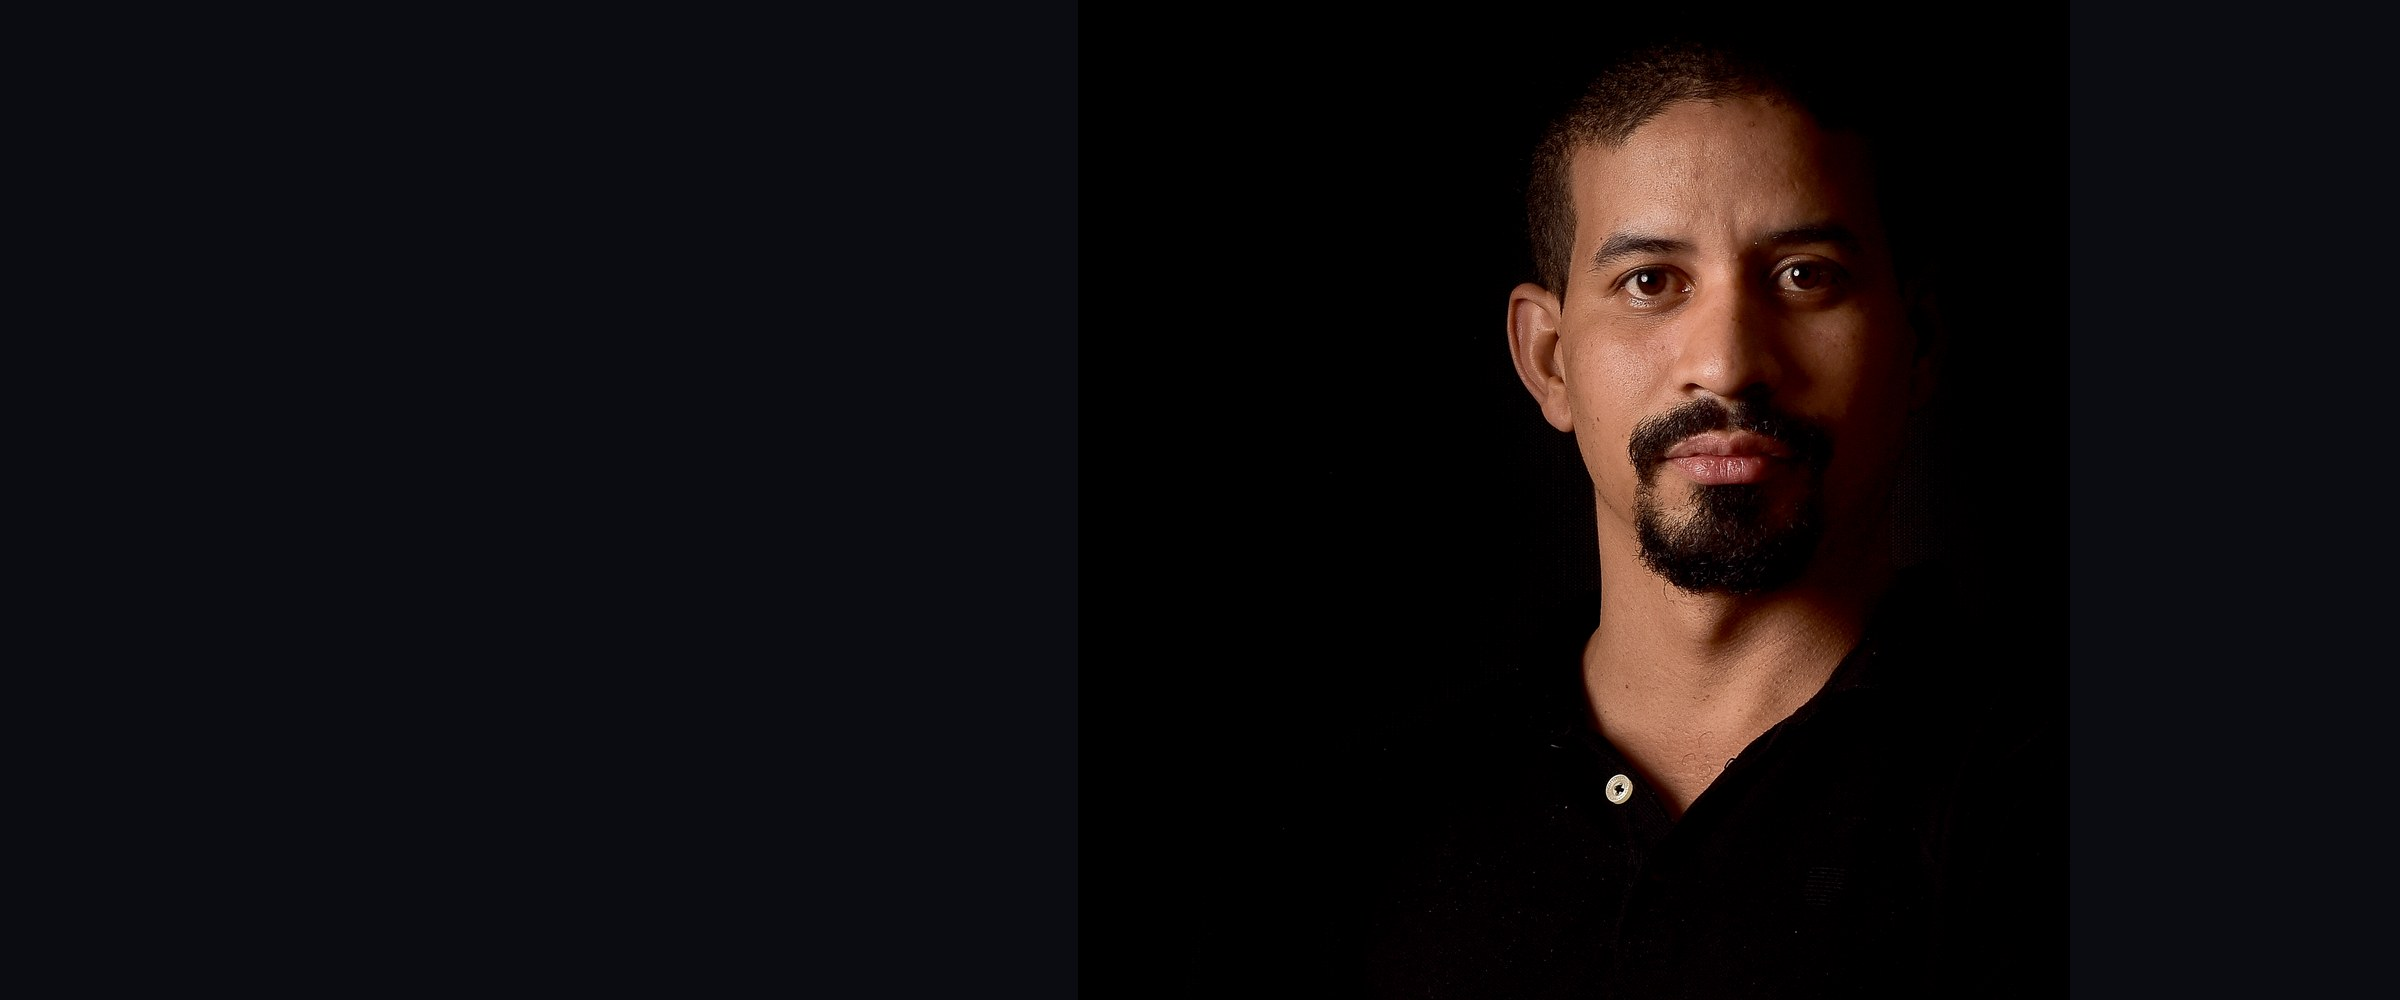
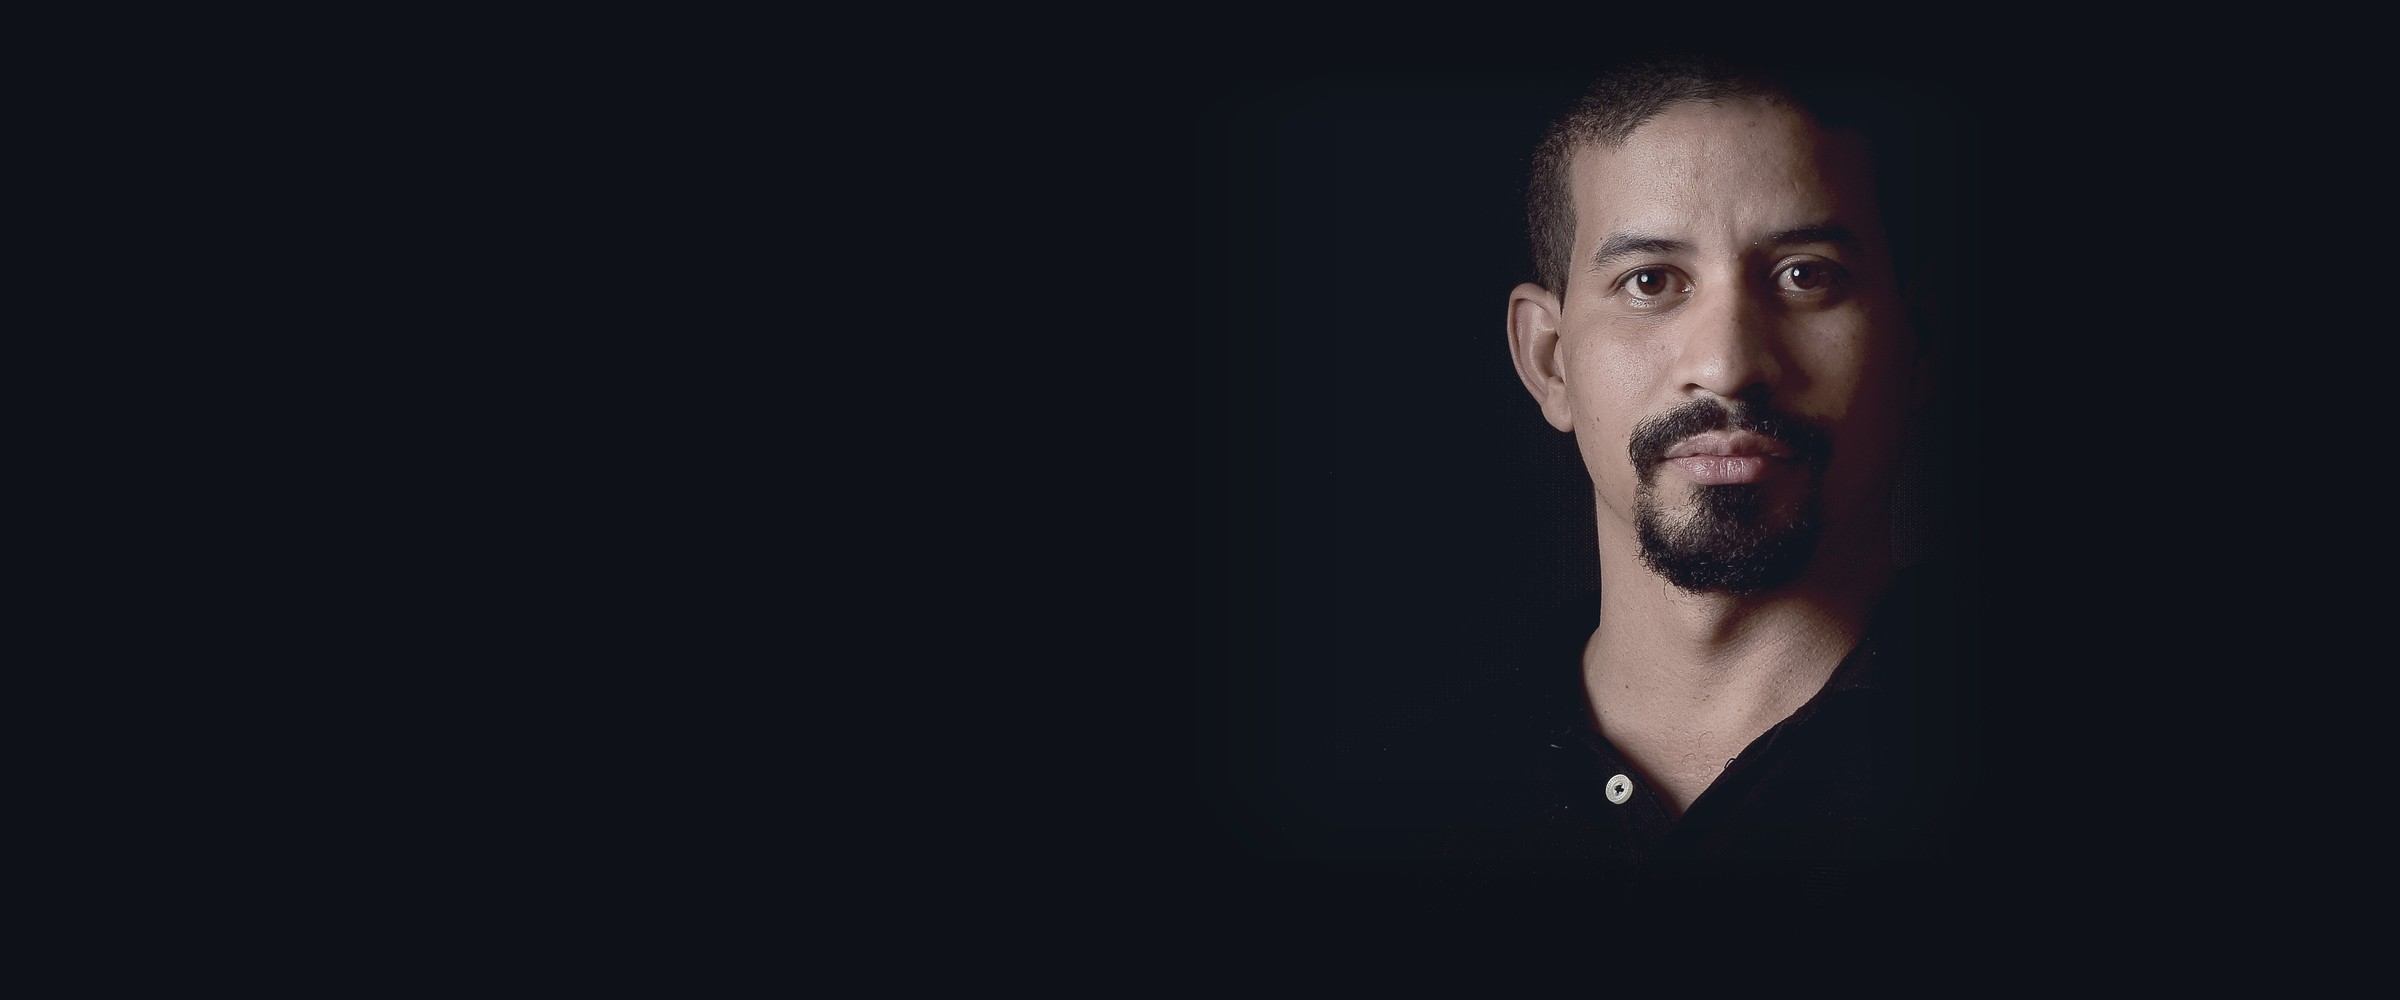
Add files via upload

Changed region(s): [[0.5, 0.062, 0.8438, 0.868]]

diff --git a/index.html b/index.html
@@ -50,7 +50,7 @@
       <p class="lead">19 anos mantendo de pé a TI de operações onde a falha custa caro — logística, banco e indústria. Hoje, suporte Nível&nbsp;3 de Modern Workplace para uma operação corporativa nos Estados Unidos.</p>
       <p class="cta">
         <a class="btn btn-fill" href="#historico">Ver trajetória</a>
-        <a class="btn btn-line" href="cv.pdf">Baixar currículo</a>
+        <a class="btn btn-line" href="cv/cv.pdf">Baixar currículo</a>
       </p>
     </div>
   </div>
@@ -199,11 +199,11 @@
       <div>
         <p class="kicker">04 — Contato</p>
         <h2>Vamos conversar sobre<br>infraestrutura.</h2>
-        <p class="where">Recife, PE · disponível para trabalho remoto · PT / EN / ES</p>
+        <p class="where">Recife, PE · PT / EN / ES</p>
       </div>
       <div class="links">
-        <a class="btn btn-fill" href="mailto:jleo.andrade@gmail.com">jleo.andrade@gmail.com</a>
-        <a class="btn btn-line" href="https://www.linkedin.com/in/jorgeleandro/">linkedin.com/in/jorgeleandro</a>
+        <a class="btn btn-fill" href="mailto:jleo.andrade@gmail.com"><svg width="17" height="17" viewBox="0 0 24 24" fill="none" stroke="currentColor" stroke-width="2" stroke-linecap="round" stroke-linejoin="round" aria-hidden="true"><rect x="2" y="4" width="20" height="16" rx="2"/><path d="m2 7.5 10 6 10-6"/></svg>jleo.andrade@gmail.com</a>
+        <a class="btn btn-line" href="https://www.linkedin.com/in/jorgeleandro/"><svg width="17" height="17" viewBox="0 0 24 24" fill="none" stroke="currentColor" stroke-width="2" stroke-linecap="round" stroke-linejoin="round" aria-hidden="true"><path d="M14 3h7v7"/><path d="M10 14 21 3"/><path d="M21 14v5a2 2 0 0 1-2 2H5a2 2 0 0 1-2-2V5a2 2 0 0 1 2-2h5"/></svg>linkedin.com/in/jorgeleandro</a>
       </div>
     </div>
   </section>

diff --git a/es.html b/es.html
@@ -50,7 +50,7 @@
       <p class="lead">19 años sosteniendo la TI de operaciones donde fallar sale caro — logística, banca e industria. Hoy, soporte de Nivel&nbsp;3 de Modern Workplace para una operación corporativa con sede en Estados Unidos.</p>
       <p class="cta">
         <a class="btn btn-fill" href="#trayectoria">Ver trayectoria</a>
-        <a class="btn btn-line" href="cv.pdf">Descargar CV</a>
+        <a class="btn btn-line" href="cv/cv-es.pdf">Descargar CV</a>
       </p>
     </div>
   </div>
@@ -199,11 +199,11 @@
       <div>
         <p class="kicker">04 — Contacto</p>
         <h2>Hablemos de<br>infraestructura.</h2>
-        <p class="where">Recife, Brasil · disponible para trabajo remoto · PT / EN / ES</p>
+        <p class="where">Recife, Brasil · PT / EN / ES</p>
       </div>
       <div class="links">
-        <a class="btn btn-fill" href="mailto:jleo.andrade@gmail.com">jleo.andrade@gmail.com</a>
-        <a class="btn btn-line" href="https://www.linkedin.com/in/jorgeleandro/">linkedin.com/in/jorgeleandro</a>
+        <a class="btn btn-fill" href="mailto:jleo.andrade@gmail.com"><svg width="17" height="17" viewBox="0 0 24 24" fill="none" stroke="currentColor" stroke-width="2" stroke-linecap="round" stroke-linejoin="round" aria-hidden="true"><rect x="2" y="4" width="20" height="16" rx="2"/><path d="m2 7.5 10 6 10-6"/></svg>jleo.andrade@gmail.com</a>
+        <a class="btn btn-line" href="https://www.linkedin.com/in/jorgeleandro/"><svg width="17" height="17" viewBox="0 0 24 24" fill="none" stroke="currentColor" stroke-width="2" stroke-linecap="round" stroke-linejoin="round" aria-hidden="true"><path d="M14 3h7v7"/><path d="M10 14 21 3"/><path d="M21 14v5a2 2 0 0 1-2 2H5a2 2 0 0 1-2-2V5a2 2 0 0 1 2-2h5"/></svg>linkedin.com/in/jorgeleandro</a>
       </div>
     </div>
   </section>

diff --git a/en.html b/en.html
@@ -50,7 +50,7 @@
       <p class="lead">19 years keeping IT running in operations where failure is expensive — logistics, banking and heavy industry. Today, Tier&nbsp;3 Modern Workplace support for a US-based corporate operation.</p>
       <p class="cta">
         <a class="btn btn-fill" href="#experience">See experience</a>
-        <a class="btn btn-line" href="cv.pdf">Download résumé</a>
+        <a class="btn btn-line" href="cv/cv-en.pdf">Download résumé</a>
       </p>
     </div>
   </div>
@@ -199,11 +199,11 @@
       <div>
         <p class="kicker">04 — Contact</p>
         <h2>Let's talk about<br>infrastructure.</h2>
-        <p class="where">Recife, Brazil · available for remote work · PT / EN / ES</p>
+        <p class="where">Recife, Brazil · PT / EN / ES</p>
       </div>
       <div class="links">
-        <a class="btn btn-fill" href="mailto:jleo.andrade@gmail.com">jleo.andrade@gmail.com</a>
-        <a class="btn btn-line" href="https://www.linkedin.com/in/jorgeleandro/">linkedin.com/in/jorgeleandro</a>
+        <a class="btn btn-fill" href="mailto:jleo.andrade@gmail.com"><svg width="17" height="17" viewBox="0 0 24 24" fill="none" stroke="currentColor" stroke-width="2" stroke-linecap="round" stroke-linejoin="round" aria-hidden="true"><rect x="2" y="4" width="20" height="16" rx="2"/><path d="m2 7.5 10 6 10-6"/></svg>jleo.andrade@gmail.com</a>
+        <a class="btn btn-line" href="https://www.linkedin.com/in/jorgeleandro/"><svg width="17" height="17" viewBox="0 0 24 24" fill="none" stroke="currentColor" stroke-width="2" stroke-linecap="round" stroke-linejoin="round" aria-hidden="true"><path d="M14 3h7v7"/><path d="M10 14 21 3"/><path d="M21 14v5a2 2 0 0 1-2 2H5a2 2 0 0 1-2-2V5a2 2 0 0 1 2-2h5"/></svg>linkedin.com/in/jorgeleandro</a>
       </div>
     </div>
   </section>
